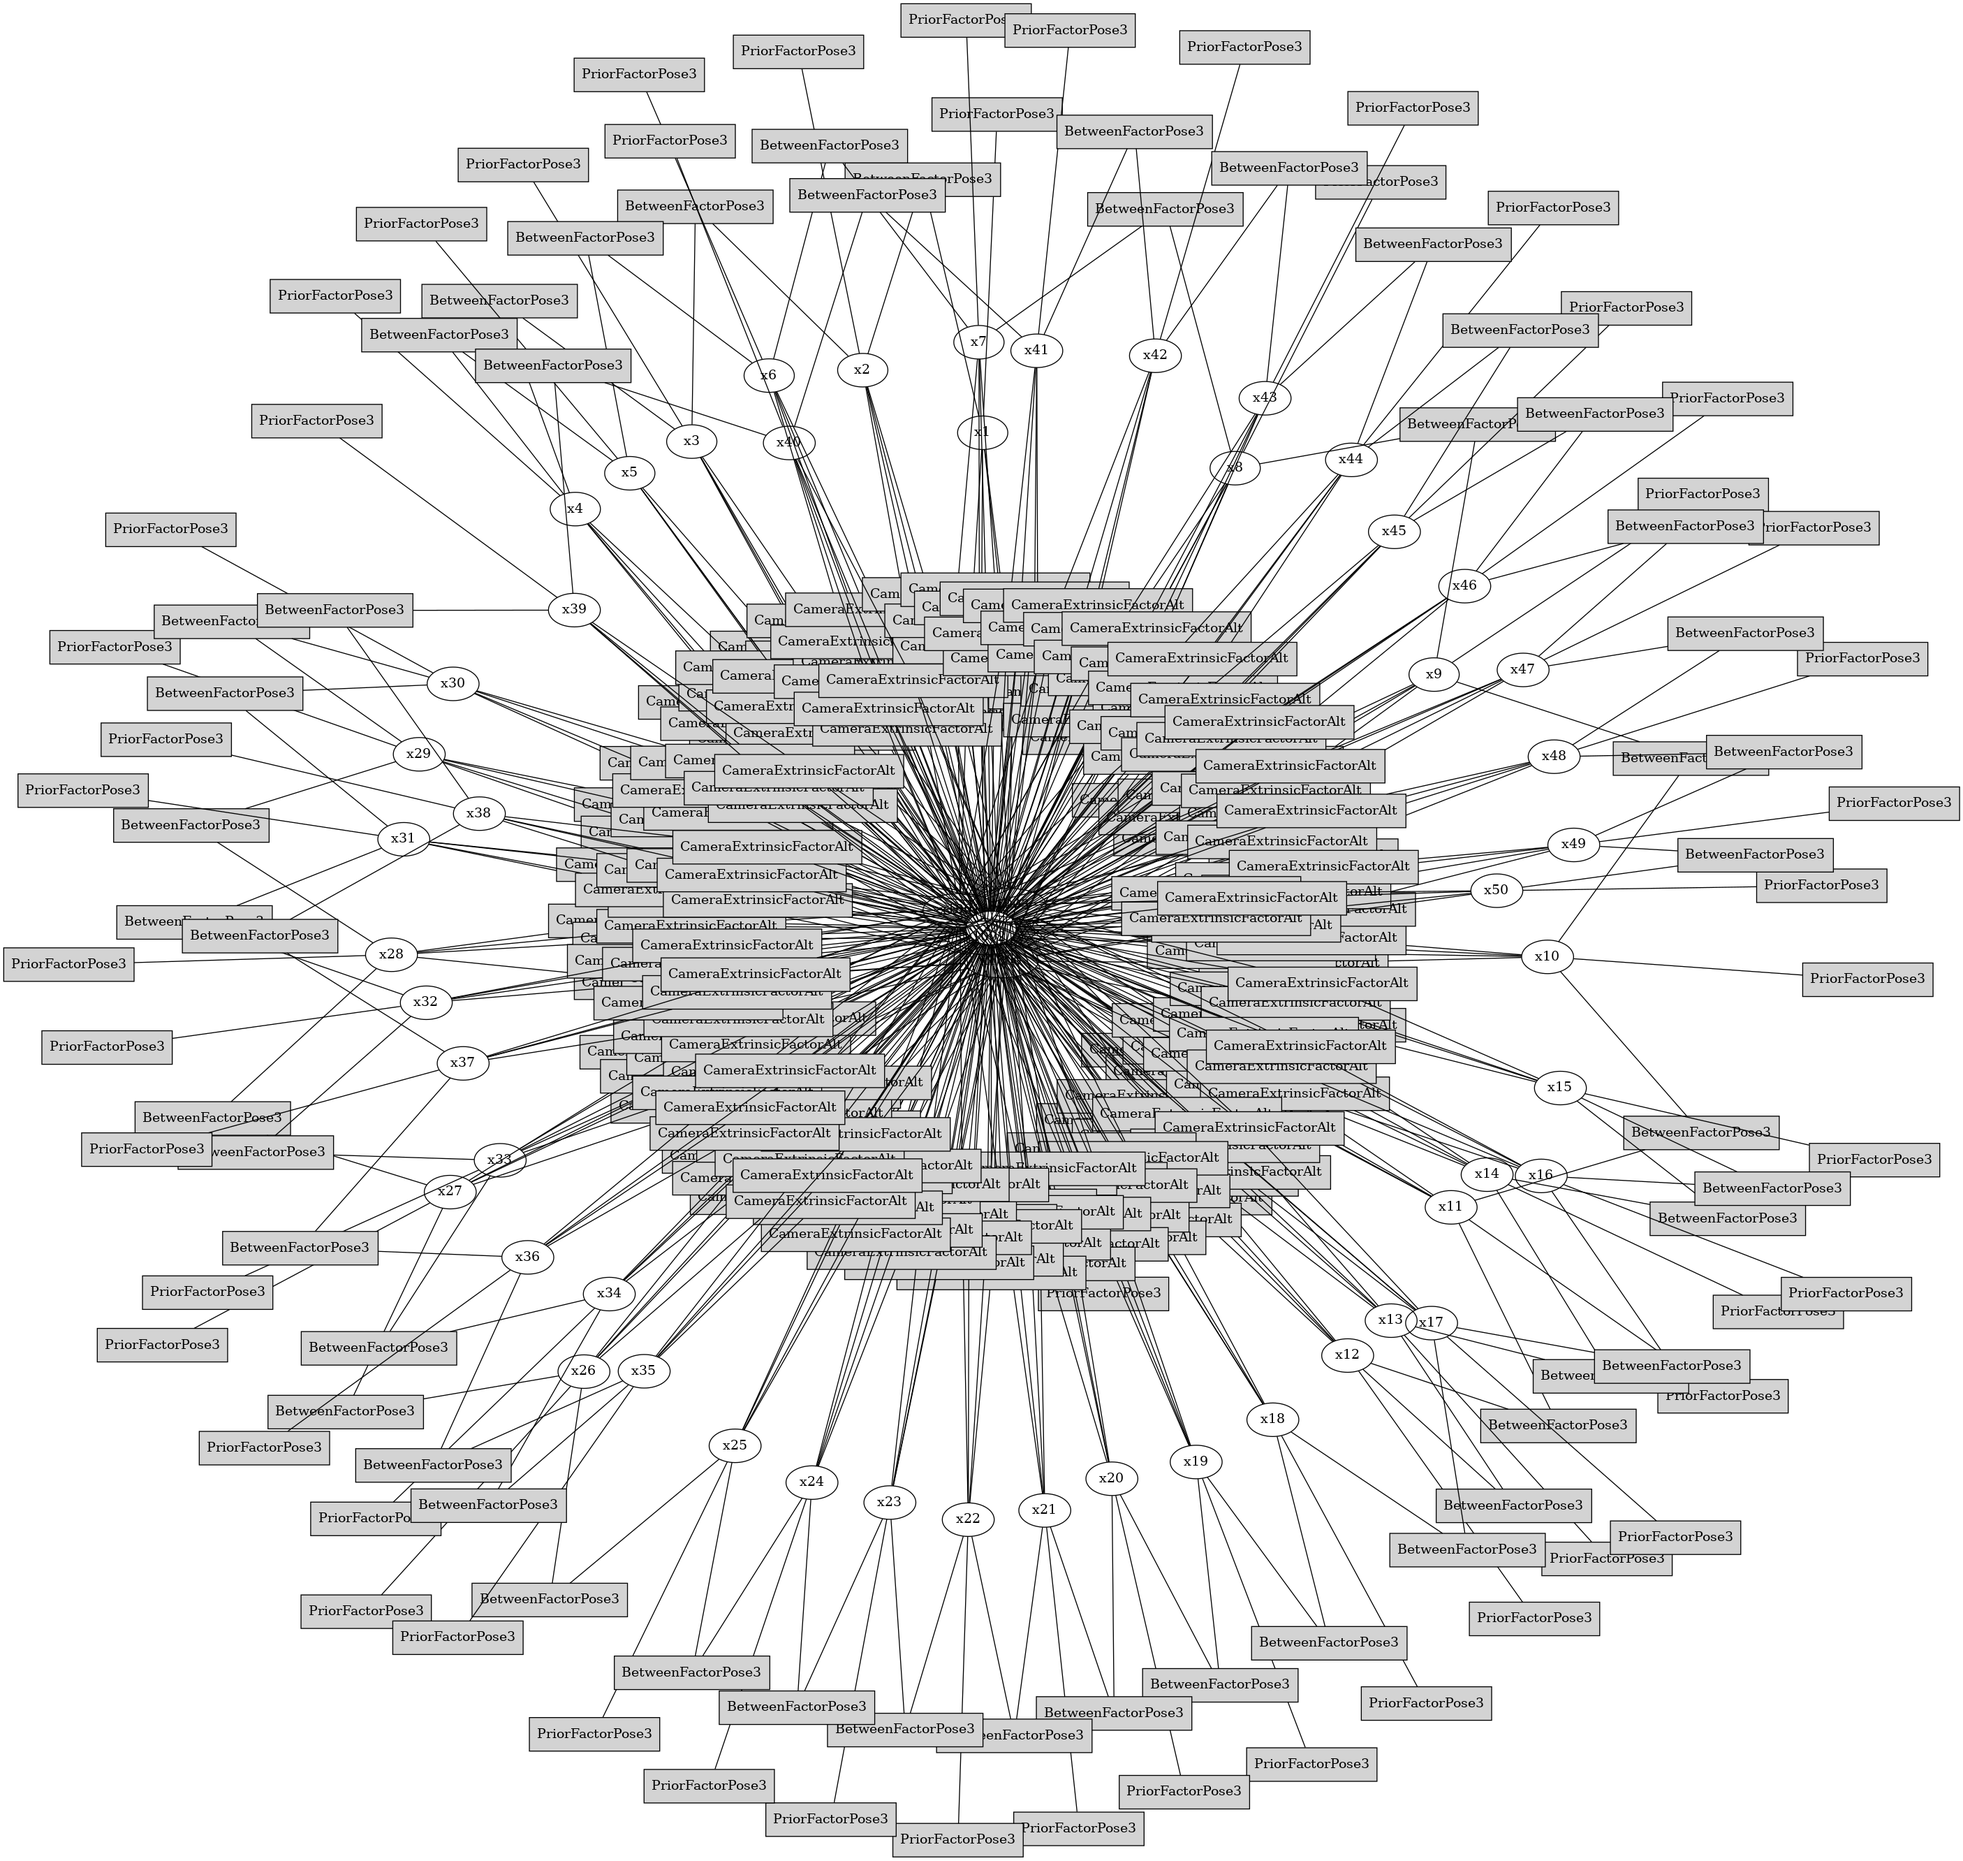
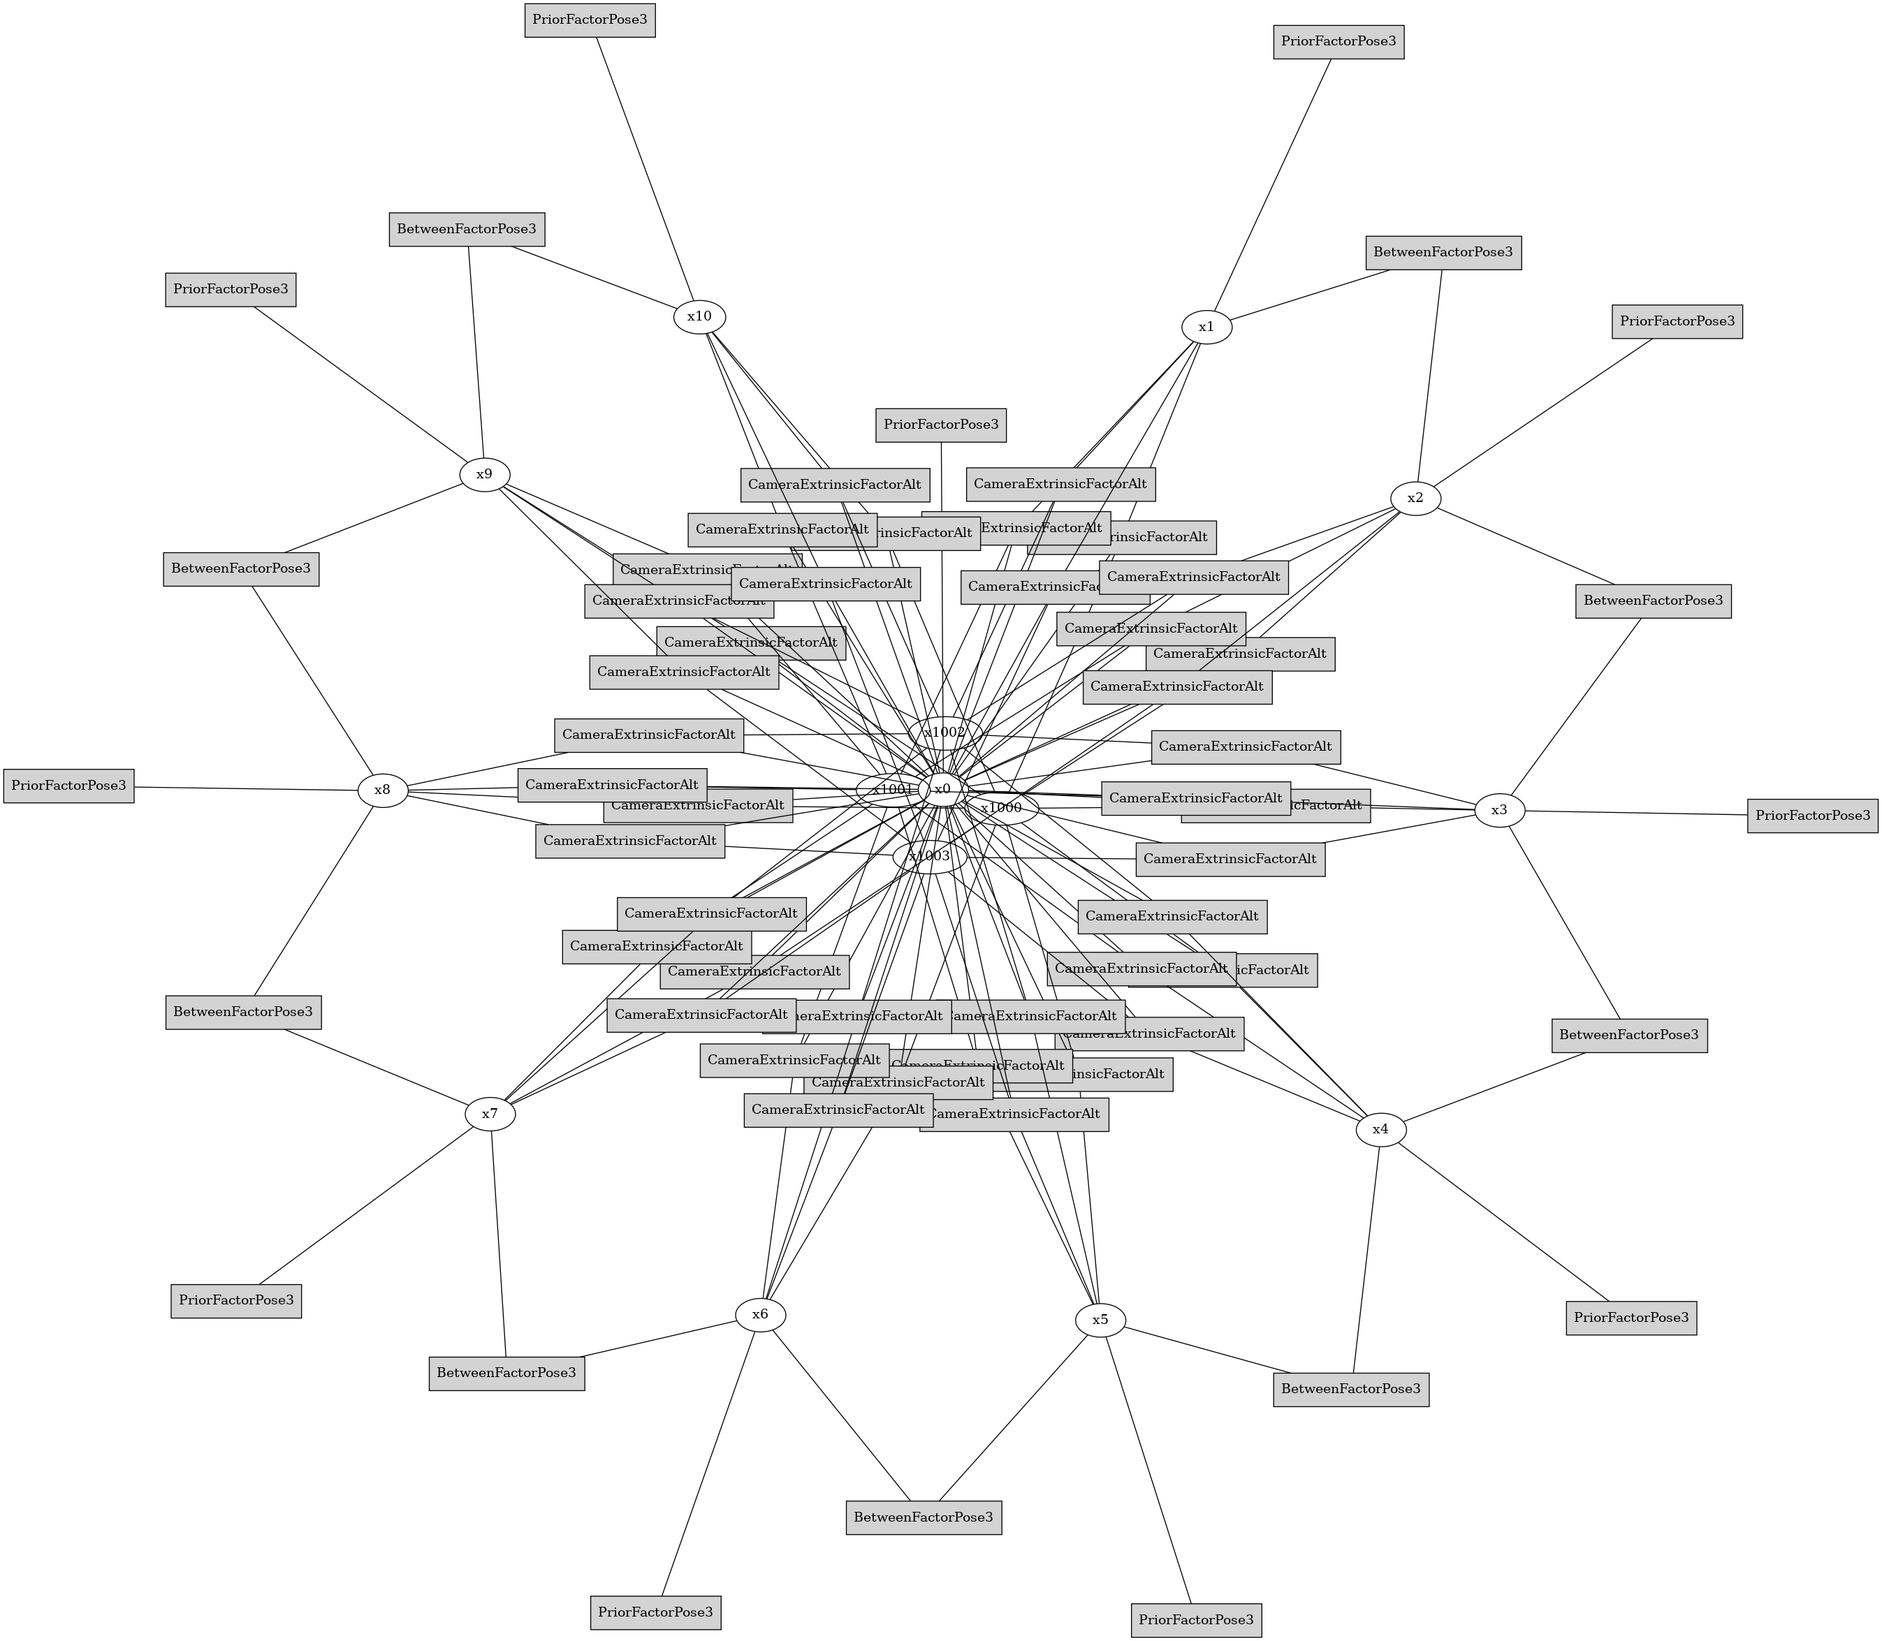
Testing

diff --git a/Simulation/PlanarLandmarkAltFactor.py b/Simulation/PlanarLandmarkAltFactor.py
@@ -22,15 +22,17 @@ class PlanarLandmarkAltFactor(SimulationBaseClass):
         self.prior_noise = self.odometry_noise
         self.prior_factor = PriorFactorPose3
 
+        # quat = [0, 0, 0, 1]
         quat = [0, 0, 0, 1]
         rot = Rot3(*quat)
-        t = Point3(1, 0, 0)
+        t = Point3(0, 3, 0)
         sigma = 1e6
         self.camera_extrinsics = Pose3(rot, t)
         self.camera_extrinsics_covariance = noiseModel.Diagonal.Sigmas([sigma]*6) if extrinsic_cov is None else extrinsic_cov
         # camera_prior = extrinsic_prior if extrinsic_prior is not None else self.camera_extrinsics
         camera_prior = Pose3()
         camera_prior = SimulatedMeasurement.sample(self.camera_extrinsics, self.measurement_noise)
+        camera_prior = self.camera_extrinsics
 
 
         self.steps = steps
@@ -47,8 +49,9 @@ class PlanarLandmarkAltFactor(SimulationBaseClass):
 
         # self.graph.push_back(self.prior_factor(self.prior_index+1, self.trajectory.prior, self.prior_noise.default_noise_model())) # Insert prior into graph
 
+        dist = 5
         self.landmark_index = 1000
-        self.landmarks = [Point3(10, 0, 0), Point3(-10, 0, 0), Point3(0, 10, 0), Point3(0, -10, 0)]
+        self.landmarks = [Point3(dist, 0, 0), Point3(-dist, 0, 0), Point3(0, dist, 0), Point3(0, -dist, 0)]
         for i, landmark in enumerate(self.landmarks):
             self.current_estimate.insert(self.landmark_index + i, landmark)
 
@@ -57,7 +60,7 @@ class PlanarLandmarkAltFactor(SimulationBaseClass):
 
         base_true_odom = self.trajectory.odometry[i] # Current true odometry
         base_true_state = self.trajectory.trajectory[i + 1] # Current true state
-        camera_true_state = self.camera_extrinsics * base_true_state
+        camera_true_state = base_true_state.compose(self.camera_extrinsics)
 
         odometry_measurement = SimulatedMeasurement.sample(base_true_odom, self.odometry_noise) # Sample noisy odometry measurement
         camera_measurement = SimulatedMeasurement.sample(camera_true_state, self.measurement_noise) # Sample noisy camera measurement
@@ -65,22 +68,23 @@ class PlanarLandmarkAltFactor(SimulationBaseClass):
 
 
         for j, landmark in enumerate(self.landmarks):
-            landmark_camera = camera_measurement.transformTo(landmark)
+            landmark_camera = camera_true_state.transformTo(landmark)
             self.graph.push_back(self.landmark_factor(0, key, self.landmark_index + j, landmark_camera, self.landmark_noise.default_noise_model()))
 
 
         self.graph.push_back(PriorFactorPose3(key, reference_frame_measurement, self.measurement_noise.default_noise_model()))
         if i != 0: self.graph.push_back(BetweenFactorPose3(key - 1, key, odometry_measurement, self.odometry_noise.default_noise_model()))
-        
+
         if i == 0:
             new_values = self.current_estimate
-            computed_camera_estimate = reference_frame_measurement
+            # computed_pose = reference_frame_measurement
+            computed_pose = base_true_state
         else:
             new_values = Values()
-            current_camera_estimate = self.current_estimate.atPose3(key-1)
-            computed_camera_estimate = current_camera_estimate.compose(odometry_measurement) # Compute estimate of the new state using odometry
+            current_pose_estimate = self.current_estimate.atPose3(key-1)
+            computed_pose = current_pose_estimate.compose(odometry_measurement) # Compute estimate of the new state using odometry
 
-        new_values.insert(key, computed_camera_estimate) # Prepare the new state estimate to be added to ISAM
+        new_values.insert(key, computed_pose) # Prepare the new state estimate to be added to ISAM
 
         # Perform incremental update to iSAM
         self.ISAM.update(self.graph, new_values)

diff --git a/Simulation/factor/CameraExtrinsicFactorAlt.py b/Simulation/factor/CameraExtrinsicFactorAlt.py
@@ -1,6 +1,8 @@
 
 from .common import *
 
+import gtsam
+
 def skew_symmetric(v):
     return np.array([
         [0, -v[2], v[1]],
@@ -27,25 +29,28 @@ class CameraExtrinsicFactorAlt(CustomFactor):
         self.measurement = measurement
 
     def evaluateError(self, _, values, H = None):
-        T_ref = values.atPose3(self.keys()[0])
-        T_rel = values.atPose3(self.keys()[1])
+        T_rel = values.atPose3(self.keys()[0])
+        T_ref = values.atPose3(self.keys()[1])
         landmark = values.atPoint3(self.keys()[2])
 
-        T_cam = T_ref.compose(T_rel)
-        prediction = T_cam.transformTo(landmark) # Landmark in camera frame
 
-        landmark_temp = T_ref.transformTo(landmark)
+        H_rel = np.zeros((6, 6), dtype=np.float64, order='F')
+        H_ref = np.zeros((6, 6), dtype=np.float64, order='F')
+        H_cam = np.zeros((3, 6), dtype=np.float64, order='F')
+        H_p = np.zeros((3, 3), dtype=np.float64, order='F')
+
+
+        T_cam = T_ref.compose(T_rel, H_ref, H_rel)
+        prediction = T_cam.transformTo(landmark, H_cam, H_p) # Landmark in camera frame
+
         error = prediction - self.measurement
-        # error = self.measurement - prediction
-        H1 = Hinv(T_ref, landmark)
-        H2 = Hinv(T_rel, landmark_temp)
+
         if H is not None:
-            # H[0] = -(T_rel.inverse().matrix()@Hp2)[:3, :]
-            # H[1] = -(T_rel.inverse().matrix()@T_ref.inverse().matrix()@Hp)[:3, :]
-            # H[0] = (-T_rel.inverse().matrix()@H1)[:3, :]
-            # H[1] = (-H2)[:3, :]
-            H[0] = np.zeros((3, 6))
-            H[1] = np.zeros((3, 6))
-            H[2] = T_cam.inverse().rotation().matrix()
+            H[0] = H_cam@H_rel # Problem in the second part of this result?
+            # H[0][:, 3:] = T_cam.rotation().matrix()
+            H[1] = H_cam@H_ref # Seems correct
+            # H[0] = np.zeros((3, 6))
+            # H[1] = np.zeros((3, 6))
+            H[2] = H_p # Correct, same as T_cam.inverse().rotation().matrix()
 
         return error

diff --git a/Simulation/factor/CameraExtrinsicFactor3D.py b/Simulation/factor/CameraExtrinsicFactor3D.py
@@ -10,11 +10,14 @@ class CameraExtrinsicFactor3D(CustomFactor):
         T_rel = values.atPose3(self.keys()[0]) # Current estimate of relative pose between base and camera
         T_cam = values.atPose3(self.keys()[1]) # Current estimate of camera pose in world frame
 
-        prediction = T_cam.compose(T_rel.inverse()) # Camera pose - relative pose = base pose
+        H_rel = np.zeros((6, 6), dtype=np.float64, order='F')
+        H_cam = np.zeros((6, 6), dtype=np.float64, order='F')
+
+        prediction = T_cam.compose(T_rel.inverse(), H_cam, H_rel) # Camera pose - relative pose = base pose
         error = Pose3.localCoordinates(prediction, self.measurement) # Compare measured base pose with predicted base pose
 
         if H is not None:
-            H[0] = Pose3.AdjointMap(T_rel) # From gtsam math.pdf, compose derivative first argument
+            H[0] = H_cam # From gtsam math.pdf, compose derivative first argument
             H[1] = np.eye(6) # From gtsam math.pdf, compose derivative second argument
 
         return error

diff --git a/test_jac2.py b/test_jac2.py
@@ -1,0 +1,45 @@
+import symforce.symbolic as sf
+
+T_rel = sf.Pose3(
+    R = sf.Rot3.symbolic('R_rel'),
+    t = sf.V3.symbolic('t_rel')
+)
+
+T_ref = sf.Pose3(
+    R = sf.Rot3.symbolic('R_ref'),
+    t = sf.V3.symbolic('t_ref')
+)
+
+
+landmark = sf.V3.symbolic('L')
+
+T_cam = T_ref.compose(T_rel)
+
+
+pred = T_cam.inverse() * landmark
+jac = pred.jacobian(T_rel)
+
+subs = {
+    'R_rel_w': 0,
+    'R_rel_x': 0,
+    'R_rel_y': 0,
+    'R_rel_z': 1,
+    't_rel0': 0,
+    't_rel1': 3,
+    't_rel2': 0,
+
+    'R_ref_w': 1,
+    'R_ref_x': 0,
+    'R_ref_y': 0,
+    'R_ref_z': 0,
+    't_ref0': 1,
+    't_ref1': 0,
+    't_ref2': 0,
+
+    'L0': 5,
+    'L1': 0,
+    'L2': 0
+}
+
+subbed = jac.subs(subs)
+print(subbed)

diff --git a/test_jac.py b/test_jac.py
@@ -1,0 +1,27 @@
+
+import jax.numpy as jnp
+import jax
+import numpy as np
+
+from gtsam import Rot3, Pose3, Point3
+
+
+def prediction(T_rel, T_ref, landmark):
+
+    landmark = jnp.append(landmark, jnp.array([1]))
+    # T_cam = T_ref.compose(T_rel)
+    T_cam = T_ref @ T_rel
+    # pred = T_cam.transformTo(landmark)
+    pred = (jnp.linalg.inv(T_cam) @ landmark)[:3]
+    
+    return pred
+
+
+
+Tref = jnp.array(Pose3(Rot3(1, 0, 0, 0), Point3(1, 0, 0)).matrix(), dtype=float)
+Trel = jnp.array(Pose3(Rot3(1, 0, 0, 0), Point3(1, 0, 0)).matrix(), dtype=float)
+p = jnp.array([5, 0, 0], dtype=float)
+
+jac = jax.jacobian(prediction, argnums=[0, 1])(Trel, Tref, p)
+
+print(jac)

diff --git a/Simulation/PlanarLandmark3D.py b/Simulation/PlanarLandmark3D.py
@@ -79,7 +79,7 @@ class PlanarLandmark3D(SimulationBaseClass):
 
             range_measurement = np.linalg.norm(bearing_local)
             bearing_measurement = Unit3(bearing_local)
-            # self.graph.push_back(self.landmark_factor(key, self.landmark_index + j, bearing_measurement, range_measurement, self.landmark_noise.default_noise_model()))
+            self.graph.push_back(self.landmark_factor(key, self.landmark_index + j, bearing_measurement, range_measurement, self.landmark_noise.default_noise_model()))
 
 
         self.graph.push_back(PriorFactorPose3(key, camera_measurement, self.measurement_noise.default_noise_model()))

diff --git a/test.py b/test.py
@@ -25,7 +25,7 @@ def main() -> None:
     # opts = args.opts
     # print(opts)
 
-    steps = 50
+    steps = 10
     sim = Simulation.PlanarLandmarkAltFactor(steps)
 
     fig = plt.figure()
